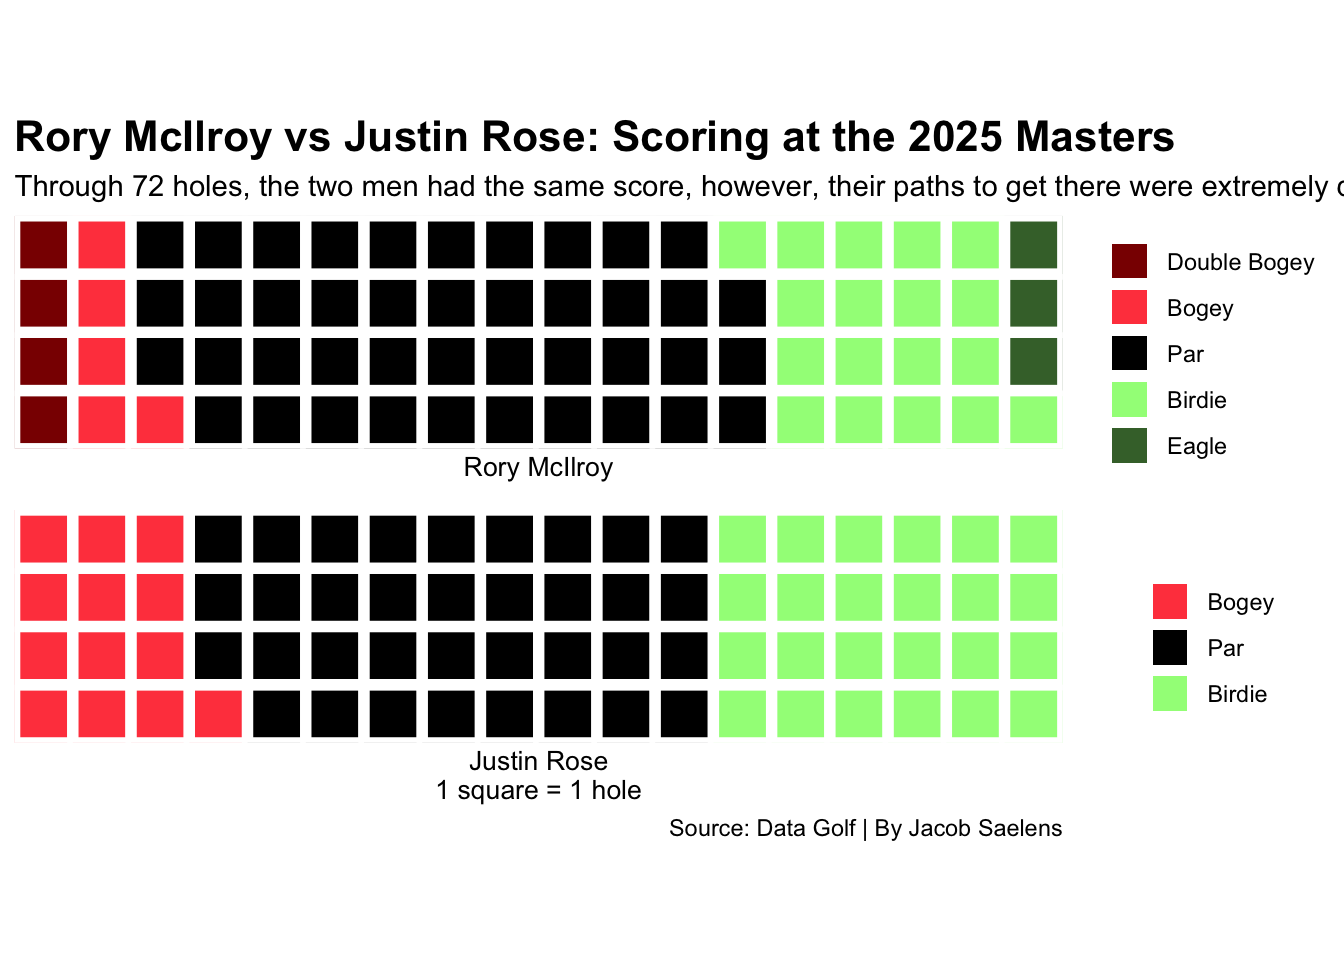
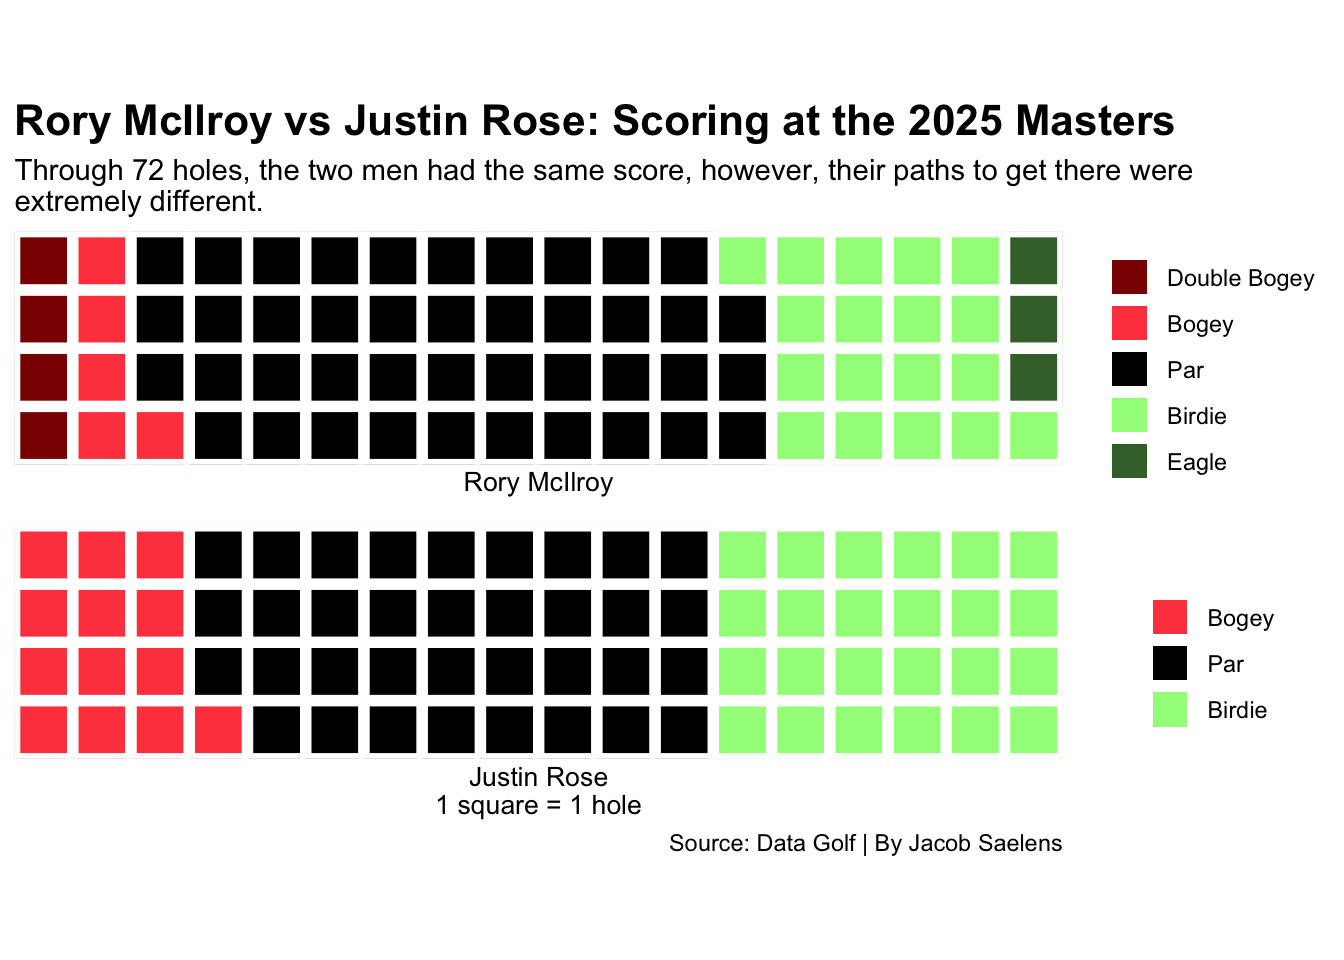
again

diff --git a/posts/rory-masters-win/index.html b/posts/rory-masters-win/index.html
@@ -260,7 +260,7 @@ time  (1): teetime
 <span id="cb5-20"><a href="#cb5-20" aria-hidden="true" tabindex="-1"></a>    <span class="fu">labs</span>(</span>
 <span id="cb5-21"><a href="#cb5-21" aria-hidden="true" tabindex="-1"></a>      <span class="at">x=</span> <span class="st">"Rory McIlroy"</span>,</span>
 <span id="cb5-22"><a href="#cb5-22" aria-hidden="true" tabindex="-1"></a>      <span class="at">title =</span> <span class="st">"Rory McIlroy vs Justin Rose: Scoring at the 2025 Masters"</span>,</span>
-<span id="cb5-23"><a href="#cb5-23" aria-hidden="true" tabindex="-1"></a>      <span class="at">subtitle =</span> <span class="st">"Through 72 holes, the two men had the same score, however, their paths to get there were extremely different."</span>) <span class="sc">+</span></span>
+<span id="cb5-23"><a href="#cb5-23" aria-hidden="true" tabindex="-1"></a>      <span class="at">subtitle =</span> <span class="st">"Through 72 holes, the two men had the same score, however, their paths to get there were </span><span class="sc">\n</span><span class="st">extremely different."</span>) <span class="sc">+</span></span>
 <span id="cb5-24"><a href="#cb5-24" aria-hidden="true" tabindex="-1"></a>    <span class="fu">theme</span>(</span>
 <span id="cb5-25"><a href="#cb5-25" aria-hidden="true" tabindex="-1"></a>      <span class="at">plot.title =</span> <span class="fu">element_text</span>(<span class="at">size =</span> <span class="dv">16</span>, <span class="at">face =</span> <span class="st">"bold"</span>),</span>
 <span id="cb5-26"><a href="#cb5-26" aria-hidden="true" tabindex="-1"></a>      <span class="at">axis.title =</span> <span class="fu">element_text</span>(<span class="at">size =</span> <span class="dv">10</span>),</span>

diff --git a/index.html b/index.html
@@ -205,7 +205,7 @@ window.Quarto = {
 
 <div class="quarto-listing quarto-listing-container-default" id="listing-listing">
 <div class="list quarto-listing-default">
-<div class="quarto-post image-right" data-index="0" data-categories="ncaa,basketball,marchmadness,bigeast,stjohns,pitino,offense,defense" data-listing-date-sort="1714798800000" data-listing-file-modified-sort="1746408169456" data-listing-date-modified-sort="NaN" data-listing-reading-time-sort="3" data-listing-word-count-sort="590">
+<div class="quarto-post image-right" data-index="0" data-categories="ncaa,basketball,marchmadness,bigeast,stjohns,pitino,offense,defense" data-listing-date-sort="1714798800000" data-listing-file-modified-sort="1746408432407" data-listing-date-modified-sort="NaN" data-listing-reading-time-sort="3" data-listing-word-count-sort="590">
 <div class="thumbnail">
 <p><a href="./posts/rory-masters-win/index.html" class="no-external"></a></p><a href="./posts/rory-masters-win/index.html" class="no-external">
 <p><img loading="lazy" src="./posts/rory-masters-win/image.png" class="thumbnail-image"></p>
